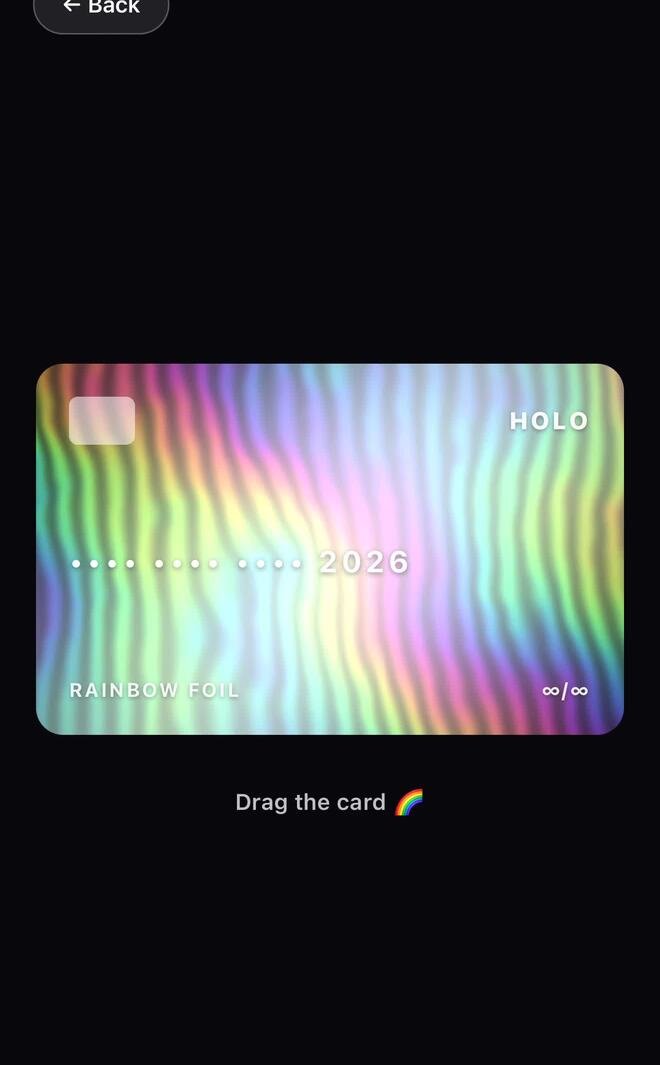
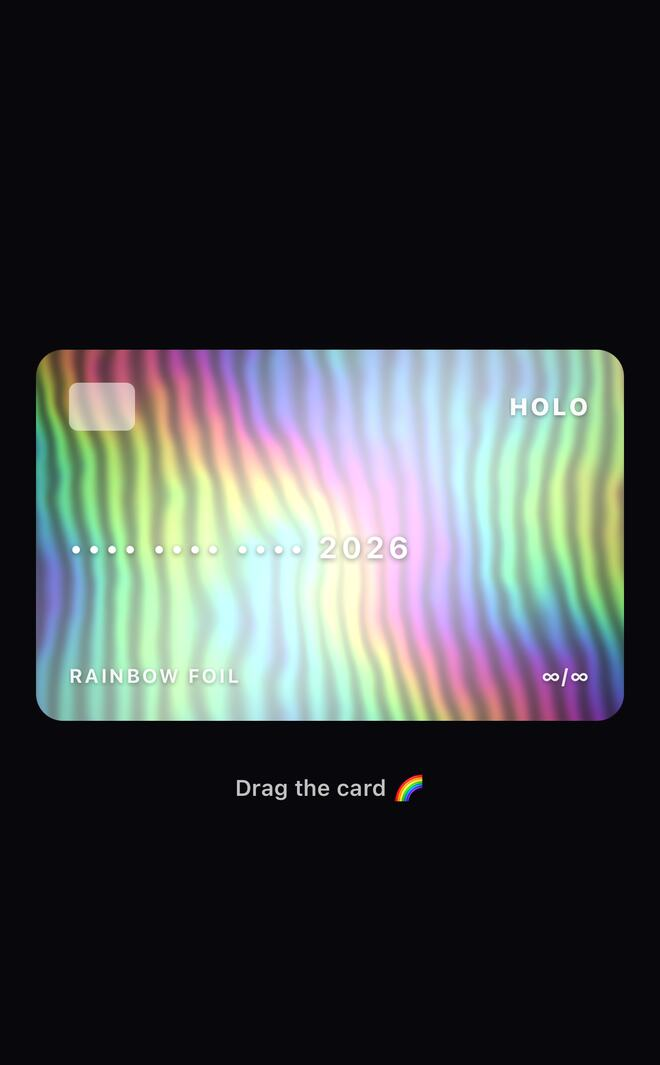
fix: refresh catalog previews and clean effect screen copy

Changed region(s): [[0.0303, 0.3099, 0.9697, 0.7746], [0.0303, 0.0, 0.2727, 0.031]]

diff --git a/example/src/screens/AiVoiceScreen.tsx b/example/src/screens/AiVoiceScreen.tsx
@@ -1,3 +1,4 @@
+import { MicGlyph } from '../components/catalog/Glyphs';
 import { View, Text, StyleSheet, StatusBar, Pressable } from 'react-native';
 import { useSafeAreaInsets } from 'react-native-safe-area-context';
 import VoiceWave from '../components/VoiceWave';
@@ -12,7 +13,6 @@ export default function AiVoiceScreen() {
       <StatusBar barStyle="light-content" backgroundColor="#06070a" />
 
       <View style={[styles.header, { paddingTop: insets.top + 60 }]}>
-        <Text style={styles.kicker}>Voice</Text>
         <Text style={styles.title}>
           {listening ? 'Listening…' : 'Tap to talk'}
         </Text>
@@ -33,7 +33,7 @@ export default function AiVoiceScreen() {
           style={[styles.mic, listening && styles.micOn]}
           onPress={toggle}
         >
-          <Text style={styles.micGlyph}>🎙</Text>
+          <MicGlyph />
         </Pressable>
         <Text style={styles.hint}>
           {listening ? 'Tap to stop' : 'Tap to speak'}
@@ -50,14 +50,6 @@ const styles = StyleSheet.create({
   },
   header: {
     paddingHorizontal: 26,
-  },
-  kicker: {
-    color: '#7c7c8a',
-    fontSize: 14,
-    fontWeight: '700',
-    letterSpacing: 1,
-    textTransform: 'uppercase',
-    marginBottom: 8,
   },
   title: {
     color: '#fff',
@@ -96,9 +88,6 @@ const styles = StyleSheet.create({
   micOn: {
     backgroundColor: '#2a1f4d',
     borderColor: '#6b4bd6',
-  },
-  micGlyph: {
-    fontSize: 26,
   },
   hint: {
     color: '#8a8a99',

diff --git a/example/src/screens/AiShimmerScreen.tsx b/example/src/screens/AiShimmerScreen.tsx
@@ -14,7 +14,7 @@ import ShimmerSweep from '../components/ShimmerSweep';
 const THINK_MS = 2600;
 
 const ANSWER =
-  'react-native-effects renders procedural WGSL shaders on WebGPU — off the JS thread, at 60fps. Aurora, liquid chrome, holographic foil, a card that snaps to dust… all generated in real time, no images or video. Just drop in a <ShaderView />.';
+  'react-native-effects renders procedural WGSL shaders on WebGPU, off the JS thread, at 60fps. Aurora, liquid chrome, holographic foil, a card that snaps to dust… all generated in real time, no images or video. Just drop in a <ShaderView />.';
 
 /** Grey placeholder lines that the iridescent shimmer sweeps across. */
 function Skeleton() {
@@ -56,7 +56,7 @@ export default function AiShimmerScreen() {
       <View style={[styles.header, { paddingTop: insets.top + 6 }]}>
         <Text style={styles.title}>Assistant</Text>
         <Text style={styles.subtitle}>
-          {thinking ? 'Generating…' : 'react-native-effects ✦'}
+          {thinking ? 'Generating…' : 'react-native-effects'}
         </Text>
       </View>
 

diff --git a/example/src/components/catalog/Glyphs.tsx b/example/src/components/catalog/Glyphs.tsx
@@ -10,6 +10,16 @@ export function SearchGlyph() {
   );
 }
 
+export function MicGlyph() {
+  return (
+    <View style={styles.micBox}>
+      <View style={styles.micHead} />
+      <View style={styles.micCradle} />
+      <View style={styles.micStand} />
+    </View>
+  );
+}
+
 export function Chevron() {
   return <View style={styles.chevron} />;
 }
@@ -35,6 +45,30 @@ const styles = StyleSheet.create({
     borderRadius: 1,
     backgroundColor: colors.text,
     transform: [{ rotate: '45deg' }],
+  },
+  micBox: {
+    alignItems: 'center',
+  },
+  micHead: {
+    width: 10,
+    height: 17,
+    borderRadius: 5,
+    backgroundColor: colors.text,
+  },
+  micCradle: {
+    width: 18,
+    height: 10,
+    marginTop: -5,
+    borderBottomLeftRadius: 9,
+    borderBottomRightRadius: 9,
+    borderWidth: 2,
+    borderTopWidth: 0,
+    borderColor: colors.text,
+  },
+  micStand: {
+    width: 2,
+    height: 5,
+    backgroundColor: colors.text,
   },
   chevron: {
     width: 8,

diff --git a/example/src/screens/AiOrbScreen.tsx b/example/src/screens/AiOrbScreen.tsx
@@ -1,3 +1,4 @@
+import { MicGlyph } from '../components/catalog/Glyphs';
 import { View, Text, StyleSheet, StatusBar, Pressable } from 'react-native';
 import { useSafeAreaInsets } from 'react-native-safe-area-context';
 import ThinkingOrb from '../components/ThinkingOrb';
@@ -29,10 +30,10 @@ export default function AiOrbScreen() {
           style={[styles.mic, listening && styles.micOn]}
           onPress={toggle}
         >
-          <Text style={styles.micGlyph}>🎙</Text>
+          <MicGlyph />
         </Pressable>
         <Text style={styles.hint}>
-          {listening ? 'Speak — the orb reacts' : 'Tap to talk to it'}
+          {listening ? 'Speak and the orb reacts' : 'Tap to talk to it'}
         </Text>
       </View>
     </View>
@@ -84,9 +85,6 @@ const styles = StyleSheet.create({
   micOn: {
     backgroundColor: '#2a1f4d',
     borderColor: '#6b4bd6',
-  },
-  micGlyph: {
-    fontSize: 26,
   },
   hint: {
     color: '#8a8a99',

diff --git a/example/src/screens/InkBloomScreen.tsx b/example/src/screens/InkBloomScreen.tsx
@@ -125,8 +125,7 @@ export default function InkBloomScreen() {
         style={[styles.hintWrap, { bottom: insets.bottom + 28 }]}
         pointerEvents="none"
       >
-        <Text style={styles.hintTitle}>Ink in water</Text>
-        <Text style={styles.hint}>tap anywhere to drop ink</Text>
+        <Text style={styles.hint}>Tap anywhere to drop ink</Text>
       </Animated.View>
     </View>
   );
@@ -146,17 +145,6 @@ const styles = StyleSheet.create({
   },
   // The tank is lit now, not black, so the caption needs a shadow to stay
   // legible over the brighter water.
-  hintTitle: {
-    color: 'rgba(255,255,255,0.94)',
-    fontSize: 15,
-    fontWeight: '700',
-    letterSpacing: 2.2,
-    textTransform: 'uppercase',
-    marginBottom: 6,
-    textShadowColor: 'rgba(0,20,26,0.75)',
-    textShadowOffset: { width: 0, height: 1 },
-    textShadowRadius: 6,
-  },
   hint: {
     color: 'rgba(255,255,255,0.62)',
     fontSize: 13,

diff --git a/example/src/screens/ThanosScreen.tsx b/example/src/screens/ThanosScreen.tsx
@@ -102,7 +102,7 @@ export default function ThanosScreen() {
                   <Text style={styles.cardLabel}>STATUS</Text>
                   <Text style={styles.cardValue}>RENDERED</Text>
                 </View>
-                <Text style={styles.snapHint}>tap to snap ✦</Text>
+                <Text style={styles.snapHint}>Tap to snap</Text>
               </View>
             </Animated.View>
           </Pressable>
@@ -127,9 +127,7 @@ export default function ThanosScreen() {
         </View>
 
         <Pressable style={styles.actionBtn} onPress={gone ? reset : snap}>
-          <Text style={styles.actionText}>
-            {gone ? '↺  Restore' : 'Snap  ✦'}
-          </Text>
+          <Text style={styles.actionText}>{gone ? 'Restore' : 'Snap'}</Text>
         </Pressable>
       </View>
     </View>

diff --git a/example/src/screens/FoamLabScreen.tsx b/example/src/screens/FoamLabScreen.tsx
@@ -18,11 +18,7 @@ import { ShaderView } from 'react-native-effects';
  * yellowness so the lacy seam of half-transparent bubbles is what sits on
  * our own beer.
  */
-const VARIANTS = [
-  '1 photo, as shot',
-  '2 photo, keyed edge',
-  '3 photo, keyed + whitened',
-];
+const VARIANTS = ['As shot', 'Keyed edge', 'Keyed and whitened'];
 
 // Stock foam photo supplied as the reference — check its licence before it
 // ships in the real glass.

diff --git a/example/src/catalog/effects.ts b/example/src/catalog/effects.ts
@@ -384,7 +384,7 @@ export const SECTIONS: CatalogSection[] = [
       {
         id: 'foamlab',
         title: 'Beer Foam',
-        line: 'Eight foam treatments side by side',
+        line: 'Three foam treatments side by side',
         screen: 'FoamLabExample',
         image: require('../../assets/catalog/foamlab.jpg'),
       },

diff --git a/example/src/screens/HoloFoilScreen.tsx b/example/src/screens/HoloFoilScreen.tsx
@@ -34,7 +34,7 @@ export default function HoloFoilScreen() {
         </GestureDetector>
 
         <Text style={styles.hint}>
-          {source === 'motion' ? 'Tilt your phone 🌈' : 'Drag the card 🌈'}
+          {source === 'motion' ? 'Tilt your phone' : 'Drag the card'}
         </Text>
       </View>
     </View>

diff --git a/example/src/screens/HourglassScreen.tsx b/example/src/screens/HourglassScreen.tsx
@@ -132,7 +132,7 @@ export default function HourglassScreen() {
             {label}
           </Text>
           {paused ? (
-            <Text style={styles.hint}>paused — tap to resume</Text>
+            <Text style={styles.hint}>Paused. Tap to resume</Text>
           ) : null}
         </View>
         <View

diff --git a/example/src/screens/TouchFieldScreen.tsx b/example/src/screens/TouchFieldScreen.tsx
@@ -26,7 +26,7 @@ export default function TouchFieldScreen() {
         pointerEvents="none"
       >
         <View style={styles.hintPill}>
-          <Text style={styles.hintText}>Drag anywhere ✦</Text>
+          <Text style={styles.hintText}>Drag anywhere</Text>
         </View>
       </View>
     </View>

diff --git a/example/src/screens/MaterialsScreen.tsx b/example/src/screens/MaterialsScreen.tsx
@@ -88,7 +88,7 @@ const MATERIALS: MaterialDef[] = [
     key: 'metal',
     caption: 'Brushed stainless, wet',
     title: 'Metal',
-    hint: 'Hold to pool water — it runs',
+    hint: 'Hold to pool water, then let it run',
     Component: MetalMaterial,
   },
 ];
